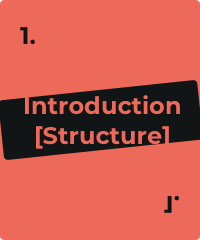
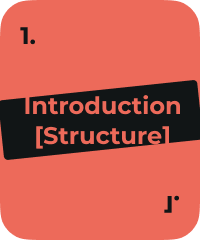
Update cards, Update border-radius

diff --git a/css/style.css b/css/style.css
@@ -393,6 +393,8 @@ textarea {
 
 	--heading-font: 'Montserrat', sans-serif;
 	--body-font: 'Merriweather', serif;
+	
+	--border: 25px;
 }
 
 /* #GENERAL */
@@ -484,9 +486,9 @@ section{
 	display: flex;
 	font-size: 2em;
 	transition: 0.5s;
-	margin: 100px 0;
-	border-radius: 20px;
+	margin: 50px 0;
 	background-color: #1A2023 ;
+	border-radius: var(--border, 25px);
 	box-shadow: 0 10px 20px rgba(9, 11, 12, 0.4);
 }
 
@@ -629,8 +631,8 @@ b {
 .endOfPost{
 	padding: 2.5em;
 	transition: 0.5s;
-	border-radius: 5px;
 	background-color: var(--dark);
+	border-radius: var(--border, 25px);
 	box-shadow: 0 10px 20px rgba(5, 5, 5, 0.4);
 }
 

diff --git a/blog-posts/second.html b/blog-posts/second.html
@@ -77,7 +77,7 @@
 <div class="endOfPost">
 	<p>
 		Want to discuss more about this subject? Or have something else you want me to look at?
-		 <a class="passion" href="mailto:info@stuurland.nl?subject=Hello Tevin!&body=I would like to say...">send me a message!</a>
+		 <a class="passion" href="mailto:info@stuurland.nl?subject=Hello Tevin!&body=I would like to say...">Send me a message!</a>
 	</p>
 </div>
 <a id="backHome" class="passion" href="../index.html">Back to blogposts</a>
